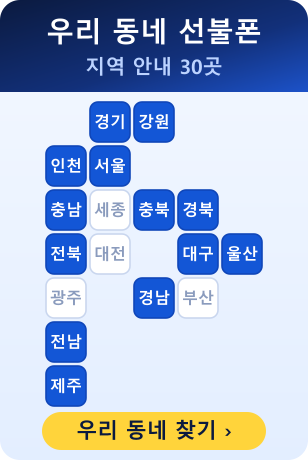
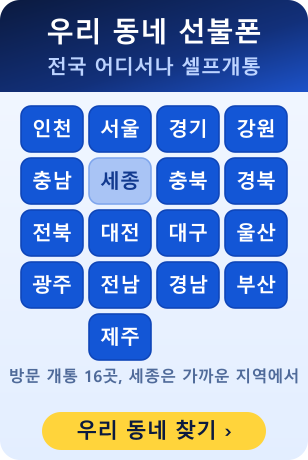
Blog widgets: coverage map, closing-soon states, live dot, time-aware today link
- Region map now shows where activation works (self-activation everywhere,
  in-person everywhere except Sejong) in a gap-free 4x4 + Jeju layout, so it
  no longer goes stale when new region posts are published.
- Today widget: add "closing within an hour" states for number porting
  (18:50-19:50) and new sign-ups (20:50-21:50); open states get a slowly
  pulsing dot (APNG); closed states point readers to Kakao.
- Clicking the today widget now goes to the activation guide while sign-ups
  are open and to Kakao chat after hours (functions/blog/_middleware.js);
  ordinary visits to the article are unchanged.
- Price check matched 97/97; verified date updated.

diff --git a/functions/blog/_middleware.js b/functions/blog/_middleware.js
@@ -1,0 +1,22 @@
+// 네이버 블로그 "오늘 접수" 위젯을 눌렀을 때 시간에 따라 가는 곳을 바꿉니다. (2026-11-07)
+// 위젯 코드의 링크(/blog/self-activation-time-over/?utm_source=naver_blog&utm_medium=widget&utm_campaign=today)는 그대로 두고,
+// 그 주소로 들어온 요청만 여기서 돌려보냅니다. 다른 /blog/ 페이지와 위젯이 아닌 방문은 원래 페이지를 그대로 보여 줍니다.
+// - 지금 접수 중: 개통 과정 안내(/guide/)로. 셀프개통 페이지 링크가 있고, 애널리틱스에 today-open 으로 남습니다.
+// - 접수가 끝난 시간: 카카오톡 상담으로. 밤에 들어온 손님이 그냥 나가지 않고 내일 아침 개통을 미리 남기게 합니다.
+import { todayState, accepting } from '../blog-widgets/today.js';
+
+const KAKAO_CHAT = 'https://pf.kakao.com/_QKvfX/chat';
+
+export function widgetTarget(url, now = new Date()) {
+	if (!url.pathname.startsWith('/blog/self-activation-time-over')) return null;
+	if (url.searchParams.get('utm_medium') !== 'widget' || url.searchParams.get('utm_campaign') !== 'today') return null;
+	const state = todayState(now);
+	if (accepting(state)) return new URL('/guide/?utm_source=naver_blog&utm_medium=widget&utm_campaign=today-open', url).toString();
+	return KAKAO_CHAT;
+}
+
+export async function onRequest(context) {
+	const target = widgetTarget(new URL(context.request.url));
+	if (!target) return context.next();
+	return new Response(null, { status: 302, headers: { Location: target, 'Cache-Control': 'no-store' } });
+}

diff --git a/functions/blog-widgets/today.js b/functions/blog-widgets/today.js
@@ -25,12 +25,23 @@ export function todayState(now = new Date()) {
 	const rest = restDay(kst);
 	const tomorrowRest = restDay(new Date(kst.getTime() + 24 * 60 * 60 * 1000));
 	const NEW_OPEN = 8 * 60, NEW_CLOSE = 21 * 60 + 50, MOVE_OPEN = 10 * 60, MOVE_CLOSE = 19 * 60 + 50;
+	const LAST_HOUR = 60; // 2026-11-07: 마감 1시간 전에는 "마감 임박" 그림을 보여 준다
 	if (min >= NEW_CLOSE) return tomorrowRest ? 'night-rest' : 'night';
-	if (rest) return min < NEW_OPEN ? `${rest}-early` : rest;
+	if (rest) {
+		if (min < NEW_OPEN) return `${rest}-early`;
+		return min >= NEW_CLOSE - LAST_HOUR ? 'new-closing' : rest;
+	}
 	if (min < NEW_OPEN) return 'early';
 	if (min < MOVE_OPEN) return 'morning';
-	if (min < MOVE_CLOSE) return 'open';
-	return 'evening';
+	if (min < MOVE_CLOSE - LAST_HOUR) return 'open';
+	if (min < MOVE_CLOSE) return 'move-closing';
+	if (min < NEW_CLOSE - LAST_HOUR) return 'evening';
+	return 'new-closing';
+}
+
+/** 지금 셀프개통을 접수하는 시간인지 (신규가입이라도 받으면 접수 중) */
+export function accepting(state) {
+	return ['morning', 'open', 'move-closing', 'evening', 'new-closing', 'sunday', 'holiday'].includes(state);
 }
 
 export async function onRequest({ request, env }) {

diff --git a/src/consts.ts b/src/consts.ts
@@ -19,7 +19,7 @@ export const EMAIL = 'jungwook.kim01@gmail.com';
 export const BIZ_ADDRESS = '서울특별시 금천구 가산동 234-34 (두산로9길 66)';
 
 // 앤텔레콤 공식 요금제 페이지와 사이트 요금 데이터를 마지막으로 대조한 날(모두 같을 때만 scripts/stamp-verified.mjs가 갱신합니다)
-export const PRICES_VERIFIED = '2026-11-06';
+export const PRICES_VERIFIED = '2026-11-07';
 
 // 월간 소식 글의 최신 주소(매달 새 소식을 올릴 때 이 값을 바꿉니다)
 export const LATEST_NEWS = '/blog/news-2026-10/';
